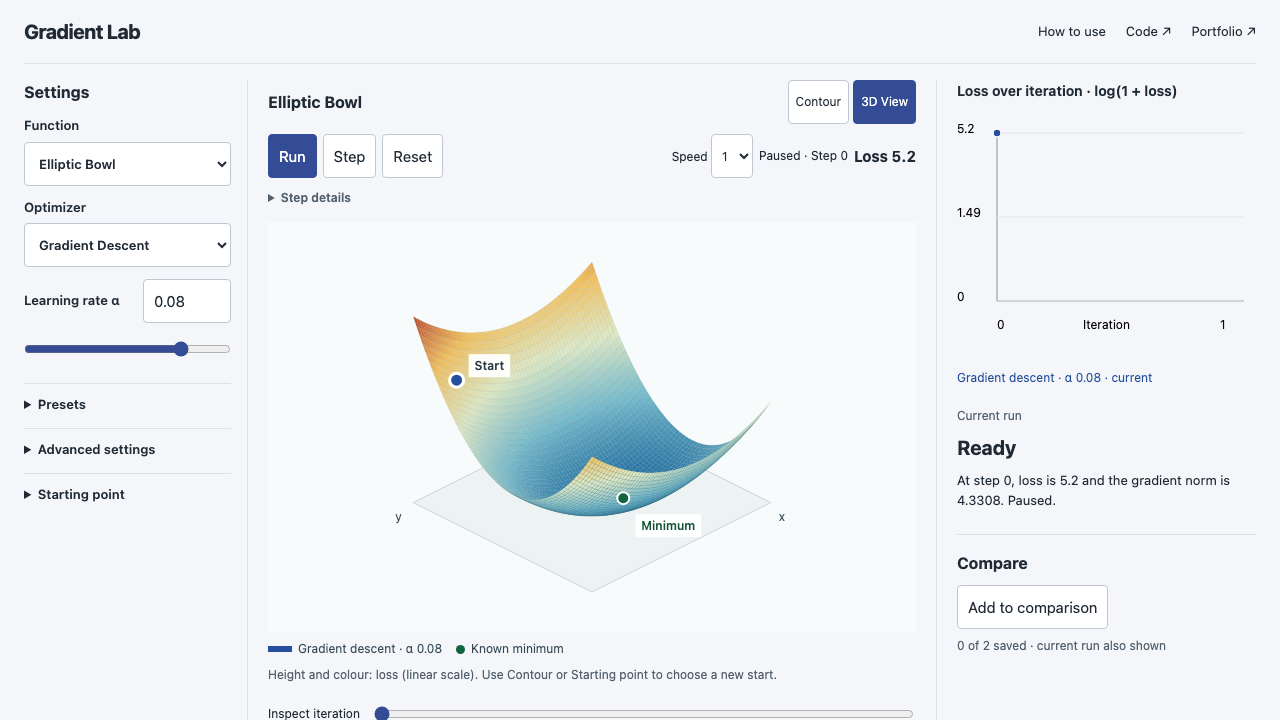
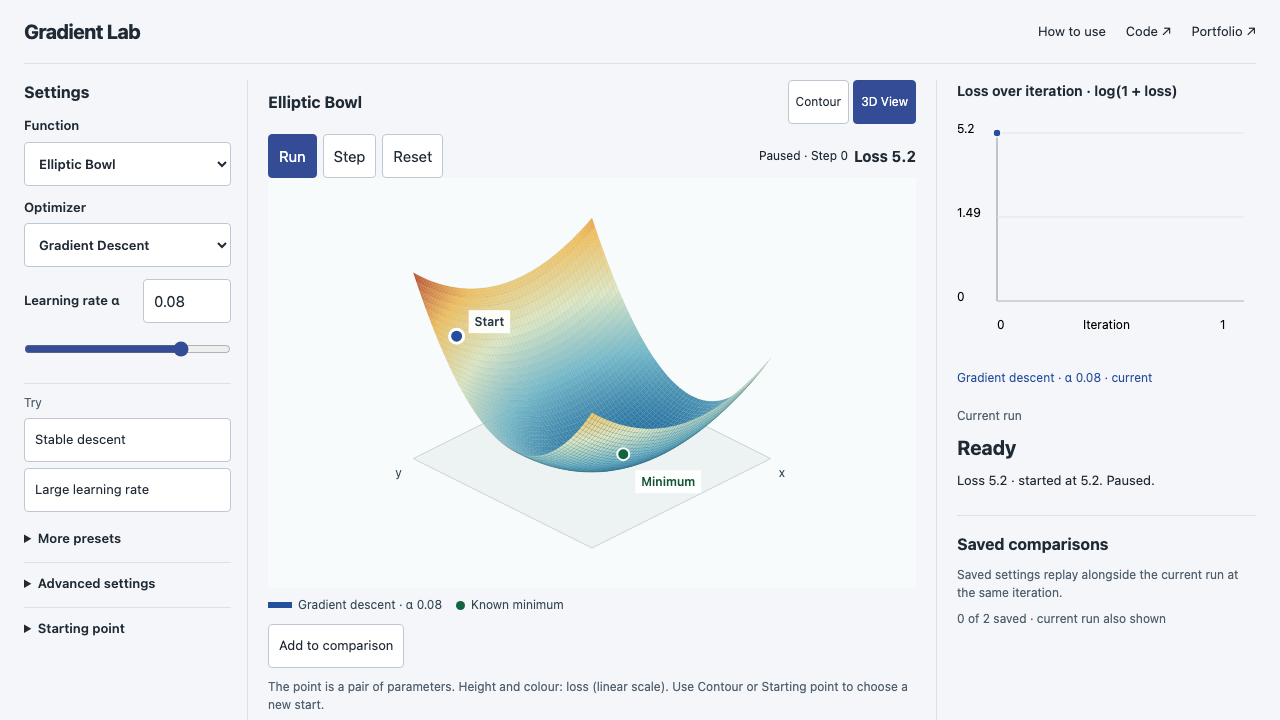
Make playback feedback and comparisons easier to use (#7)

diff --git a/src/App.jsx b/src/App.jsx
@@ -252,12 +252,14 @@ export default function App() {
               }
             />
           </div>
-      <details className="presets" aria-label="Experiment presets">
-        <summary>Presets</summary>
-        <button onClick={() => preset("stable")}>Stable descent</button>
-        <button onClick={() => preset("unstable")}>Large learning rate</button>
-        <button onClick={() => preset("valley")}>Rosenbrock momentum</button>
-      </details>
+          <div className="presets" role="group" aria-label="Experiment presets">
+            <span className="preset-label">Try</span>
+            <button onClick={() => preset("stable")}>Stable descent</button>
+            <button onClick={() => preset("unstable")}>Large learning rate</button>
+            <details><summary>More presets</summary>
+              <button onClick={() => preset("valley")}>Rosenbrock momentum</button>
+            </details>
+          </div>
         </section>
         <section className="experiment" aria-label="Experiment visualization">
           <div className="plot-heading">
@@ -301,43 +303,15 @@ export default function App() {
             >
               Reset
             </button>
-            <label>
-              Speed{" "}
-              <select
-                value={speed}
-                onChange={(e) => setSpeed(Number(e.target.value))}
-              >
-                {[1, 2, 4].map((s) => (
-                  <option key={s}>{s}</option>
-                ))}
-              </select>
-            </label>
             <span role="status">
               {running ? "Running" : "Paused"} · Step {cursor}
             </span>
             <strong className="live-loss">Loss {fmt(current?.loss)}</strong>
           </div>
-              <details className="step-details">
-                <summary>Step details</summary>
-                <p className="equation">
-                  {config.optimizer === "gd"
-                    ? "θₜ₊₁ = θₜ − αgₜ"
-                    : config.optimizer === "momentum"
-                      ? "vₜ₊₁ = βvₜ − αgₜ; θₜ₊₁ = θₜ + vₜ₊₁"
-                      : "θₜ₊₁ = θₜ − αm̂ₜ / (√v̂ₜ + ε)"}
-                </p>
-                {current?.dx !== undefined && (
-                  <p>
-                    Next x update: {fmt(current.x)} + ({fmt(current.dx)}) ={" "}
-                    {fmt(current.x + current.dx)}. Gradient x:{" "}
-                    {fmt(current.gradX)}
-                    {config.noise > 0
-                      ? `; after noise: ${fmt(current.noisyGradX)}`
-                      : ""}
-                    .
-                  </p>
-                )}
-              </details>
+          <div className="mobile-feedback">
+            <LossTrend runs={runs} cursor={cursor} />
+            <span>Lower on the surface means lower loss.</span>
+          </div>
           <LandscapeCanvas
             objective={objective}
             runs={runs}
@@ -345,8 +319,14 @@ export default function App() {
             viewMode={view}
             onStart={setStart}
           />
+          <div className="comparison-action">
+            <button disabled={!!savedCurrent || retained.length >= 2} onClick={retain}>
+              {savedCurrent ? "Added to comparison" : "Add to comparison"}
+            </button>
+            {runs.length > 1 && <span>All runs at iteration {cursor}</span>}
+          </div>
           <p className="caption">
-            {view === "contour" ? "Colour" : "Height and colour"}:{" "}
+            The point is a pair of parameters. {view === "contour" ? "Colour" : "Height and colour"}:{" "}
             {objective.id === "bowl" ? "loss (linear scale)" : "log(1 + loss)"}.
             {view === "contour"
               ? " Click inside the axes to set the starting point."
@@ -366,6 +346,40 @@ export default function App() {
             />
           </label>
 
+              <details className="step-details">
+                <summary>Step details</summary>
+            <label>
+              Speed{" "}
+              <select
+                value={speed}
+                onChange={(e) => setSpeed(Number(e.target.value))}
+              >
+                {[1, 2, 4].map((s) => (
+                  <option key={s}>{s}</option>
+                ))}
+              </select>
+            </label>
+                <p className="equation">
+                  {config.optimizer === "gd"
+                    ? "θₜ₊₁ = θₜ − αgₜ"
+                    : config.optimizer === "momentum"
+                      ? "vₜ₊₁ = βvₜ − αgₜ; θₜ₊₁ = θₜ + vₜ₊₁"
+                      : "θₜ₊₁ = θₜ − αm̂ₜ / (√v̂ₜ + ε)"}
+                </p>
+                {current?.dx !== undefined && (
+                  <p>
+                    Next x update: {fmt(current.x)} + ({fmt(current.dx)}) ={" "}
+                    {fmt(current.x + current.dx)}. Gradient x:{" "}
+                    {fmt(current.gradX)}
+                    {config.noise > 0
+                      ? `; after noise: ${fmt(current.noisyGradX)}`
+                      : ""}
+                    .
+                  </p>
+                )}
+                <p>Gradient norm: {fmt(current?.gradNorm)}. Smaller does not by itself prove a minimum.</p>
+              </details>
+
         </section>
           <section className="results" aria-label="Experiment results">
             <LossComparison runs={runs} cursor={cursor} />
@@ -374,7 +388,7 @@ export default function App() {
               <h2>{summary.status}</h2>
               <p>
                 {current
-                  ? `At step ${current.iteration}, loss is ${fmt(current.loss)} and the gradient norm is ${fmt(current.gradNorm)}.`
+                  ? `Loss ${fmt(current.loss)} · started at ${fmt(result.trace[0].loss)}.`
                   : "The initial state could not be evaluated."}{" "}
                 {cursor >= result.trace.length - 1
                   ? `Stopped: ${result.termination.replaceAll("_", " ")}.`
@@ -383,12 +397,12 @@ export default function App() {
                     : "Paused."}
               </p>
 
+              {cursor >= result.trace.length - 1 && ["safety_limit", "numerical_failure"].includes(result.termination) &&
+                <button onClick={() => preset("stable")}>Return to stable descent</button>}
             </div>
           <section className="saved-runs" aria-label="Saved comparisons">
-            <h2>Compare</h2>
-            <button disabled={!!savedCurrent || retained.length >= 2} onClick={retain}>
-              {savedCurrent ? "Added to comparison" : "Add to comparison"}
-            </button>
+            <h2>Saved comparisons</h2>
+            <p>Saved settings replay alongside the current run at the same iteration.</p>
             <p>{retained.length} of 2 saved · current run also shown</p>
             {retained.map((run) => <div className="saved-run" key={run.key}>
               <span style={{ color: COLORS[run.slot] }}>{runLabel(run.config)}</span>
@@ -404,6 +418,7 @@ export default function App() {
         <aside className="controls advanced-controls" aria-label="Advanced experiment controls">
           <details className="advanced">
             <summary>Advanced settings</summary>
+            <button className="mobile-preset" onClick={() => preset("valley")}>Rosenbrock momentum</button>
             <label>
               {config.optimizer === "adam" ? "First moment β₁" : "Momentum β"}{" "}
               <span className="control-value">{fmt(config.momentum)}</span>
@@ -578,6 +593,7 @@ function LossComparison({ runs, cursor }) {
   return (
     <figure ref={chartRef}>
       <figcaption>Loss over iteration · log(1 + loss)</figcaption>
+      {runs.length > 1 && <p className="comparison-clock">All runs at iteration {cursor}; stopped runs keep their last point.</p>}
       <svg
         viewBox={`0 0 ${W} ${H}`}
         role="img"
@@ -636,4 +652,19 @@ function LossComparison({ runs, cursor }) {
       </p>
     </figure>
   );
+}
+
+function LossTrend({ runs, cursor }) {
+  const traces = runs.map(run => run.result.trace.slice(0, cursor + 1));
+  const high = Math.max(1, ...traces.flat().map(point => Math.log1p(Math.max(0, point.loss))));
+  return <figure className="loss-trend">
+    <figcaption>Loss trend</figcaption>
+    <svg viewBox="0 0 120 32" role="img" aria-label={`Loss trend through iteration ${cursor}; full chart below`}>
+      {traces.map((trace, i) => <g key={runs[i].key}><polyline fill="none" stroke={COLORS[runs[i].slot]} strokeWidth="2"
+        strokeDasharray={runs[i].slot === 1 ? "6 3" : runs[i].slot === 2 ? "2 2" : undefined}
+        points={trace.map(point => `${2 + point.iteration / Math.max(1, cursor) * 116},${30 - Math.log1p(Math.max(0, point.loss)) / high * 28}`).join(" ")} />
+        <circle cx={2 + trace.at(-1).iteration / Math.max(1,cursor) * 116} cy={30 - Math.log1p(Math.max(0,trace.at(-1).loss))/high*28} r="2" fill={COLORS[runs[i].slot]} />
+      </g>)}
+    </svg>
+  </figure>;
 }

diff --git a/src/styles.css b/src/styles.css
@@ -42,6 +42,7 @@ header nav a { display:inline-flex; align-items:center; min-height:44px; }
 .control-value { float:right; font-variant-numeric:tabular-nums; }
 .presets { margin-top:12px; border-top:1px solid var(--line); }
 .presets button { display:block; width:100%; text-align:left; font-size:13px; margin:6px 0; }
+.preset-label { display:block; font-size:12px; color:#52606e; padding-top:10px; }
 .advanced-controls details { border-top:1px solid var(--line); }
 .experiment { grid-column:2; grid-row:1/3; min-width:0; padding-bottom:16px; }
 .plot-heading { display:flex; align-items:center; justify-content:space-between; gap:8px; }
@@ -51,10 +52,12 @@ header nav a { display:inline-flex; align-items:center; min-height:44px; }
 .playback { display:flex; align-items:center; gap:6px; flex-wrap:wrap; margin:10px 0 0; }
 .playback button { padding:8px 10px; }
 .playback label,.playback span { font-size:12px; }
-.playback label { margin-left:auto; }
+.playback span { margin-left:auto; }
 .playback select { padding:6px; font-size:12px; }
 .live-loss { font-size:15px; font-variant-numeric:tabular-nums; }
 .step-details { margin:0; font-size:13px; }
+.step-details label { display:flex; align-items:center; gap:8px; }
+.step-details select { font-size:13px; }
 .step-details summary { color:#52606e; font-size:12px; }
 .equation { font-family:monospace; background:#e8edf5; padding:10px; overflow-wrap:anywhere; }
 .landscape-wrap { width:100%; height:clamp(360px,calc(100svh - 310px),820px); overflow:hidden; background:#f8faff; }
@@ -111,17 +114,19 @@ th,td { padding:10px; border-bottom:1px solid var(--line); font-variant-numeric:
 @media(max-width:1199px) {
  .bench { grid-template-columns:1fr; gap:16px; }
  .essential,.experiment,.results,.advanced-controls { grid-column:1; grid-row:auto; }
- .essential { display:grid; grid-template-columns:1fr 1fr 1fr auto; gap:12px; align-items:end; border:0; padding:0; }
+ .essential { display:grid; grid-template-columns:1fr 1fr 1fr; gap:12px; align-items:end; border:0; padding:0; }
  .essential h2 { display:none; }
  .essential label { margin:0; }
  .essential .rate-control { grid-template-columns:1fr 88px; }
  .essential .rate-control input[type=range] { min-height:24px; }
  .presets { margin:0; border:0; position:relative; }
- .presets[open] { grid-column:1/-1; }
- .presets[open] button { display:inline-block; width:auto; margin-right:8px; }
+ .presets { grid-column:1/-1; display:flex; flex-wrap:wrap; gap:6px; align-items:center; }
+ .presets button { width:auto; margin:0; }
+ .preset-label { padding:0; }
+ .presets details { margin-left:4px; }
  .experiment { padding:0; }
- .landscape-wrap { height:clamp(360px,calc(100svh - 330px),660px); }
- .results { padding:20px 0; border-left:0; border-top:1px solid var(--line); }
+ .landscape-wrap { height:clamp(360px,calc(100svh - 430px),660px); }
+ .results { padding:10px 0; border-left:0; border-top:1px solid var(--line); }
  .results figure { max-width:950px; }
  .results svg { height:260px; }
  .advanced-controls { border-right:0; border-top:1px solid var(--line); padding:0; }
@@ -138,7 +143,10 @@ th,td { padding:10px; border-bottom:1px solid var(--line); font-variant-numeric:
  .essential .rate-control input[type=range] { grid-column:1; grid-row:2; }
  .essential .rate-control input[type=number] { grid-column:2; grid-row:1/3; }
  .presets { grid-column:1/-1; }
- .presets summary { min-height:36px; padding:6px 0; }
+ .presets summary { padding:11px 0; }
+ .presets .preset-label { display:none; }
+ .presets > button { flex:1; text-align:center; font-size:12px; padding:6px; }
+ .presets details { display:none; }
  .plot-heading h2 { font-size:15px; }
  .playback { margin-top:6px; }
  .playback span { margin-left:0; }
@@ -147,3 +155,18 @@ th,td { padding:10px; border-bottom:1px solid var(--line); font-variant-numeric:
  .guide-figure svg { max-height:290px; }
 }
 @media(prefers-reduced-motion:reduce) { * { scroll-behavior:auto!important; } }
+
+.mobile-feedback { display:none; }
+.comparison-action { display:flex; flex-wrap:wrap; align-items:center; gap:8px 16px; margin:10px 0; }
+.comparison-action button { font-size:13px; }
+.comparison-action span,.comparison-clock { font-size:12px; color:#52606e; }
+@media(max-width:1199px) {
+ .mobile-feedback { display:flex; align-items:center; gap:16px; margin:8px 0; font-size:12px; color:#52606e; }
+ .loss-trend { display:flex; gap:8px; align-items:center; margin:0; flex:0 0 160px; }
+ .loss-trend figcaption { max-width:38px; line-height:1.2; }
+ .loss-trend svg { width:120px; height:32px; }
+ .comparison-action { margin:8px 0; }
+}
+
+.mobile-preset { display:none; }
+@media(max-width:600px) { .mobile-preset { display:block; } }

diff --git a/tests/e2e/gradient-lab.e2e.spec.js b/tests/e2e/gradient-lab.e2e.spec.js
@@ -19,7 +19,6 @@ test("large learning rates produce an explicit failure rather than a bounded fak
   page,
 }) => {
   await page.goto("/");
-  await page.getByText("Presets", {exact:true}).click();
   await page.getByRole("button", { name: "Large learning rate" }).click();
   await page.getByLabel("Inspect iteration").focus();
   await page.getByLabel("Inspect iteration").press("End");
@@ -63,6 +62,7 @@ test("rendering and playback controls cannot change downloaded mathematics", asy
   }
   const before = await downloadTrace();
   await page.getByRole("button", { name: "Contour", exact: true }).click();
+  await page.getByText("Step details", {exact:true}).click();
   await page
     .getByRole("combobox", { name: "Speed", exact: true })
     .selectOption("4");
@@ -137,3 +137,18 @@ for (const [width, height] of [[1280,720],[800,900],[390,844]]) {
     await page.screenshot({path:`../../outputs/distinct-tested-gradient-guide-${width}.png`});
   });
 }
+
+
+test('phone playback has a visible loss trend and nearby comparison action',async({page})=>{
+ await page.setViewportSize({width:390,height:844});await page.goto('/');
+ await expect(page.getByRole('button',{name:'Stable descent',exact:true})).toBeVisible();
+ await expect(page.getByRole('button',{name:'Large learning rate',exact:true})).toBeVisible();
+ await expect(page.locator('.loss-trend')).toBeInViewport();
+ await page.getByRole('button',{name:'Step',exact:true}).click();
+ await expect(page.locator('.loss-trend svg')).toHaveAttribute('aria-label',/iteration 1/);
+ const bowl=await page.locator('canvas').boundingBox();
+ const action=await page.getByRole('button',{name:'Add to comparison',exact:true}).boundingBox();
+ expect(action.y-bowl.y-bowl.height).toBeLessThan(40);
+ await page.getByRole('button',{name:'Add to comparison',exact:true}).click();
+ await expect(page.getByText('Paused · Step 1')).toBeVisible();
+});

diff --git a/README.md b/README.md
@@ -8,14 +8,14 @@ How do update rules and learning rates change the path down the **same objective
 
 ## Try it
 
-1. Begin on the paused elliptic bowl. Take one **Step** and open **Step details** beside playback to inspect the numeric update.
+1. Begin on the paused elliptic bowl. Take one **Step** and open **Step details** beneath the iteration scrubber to inspect the numeric update.
 2. **Add to comparison**, switch from gradient descent to Adam, and compare the paths and losses.
-3. Try **Presets → Large learning rate**. The path can leave the viewport and terminate at an explicit safety limit.
+3. Try **Large learning rate**. The path can leave the viewport and terminate at an explicit safety limit.
 4. Move to Rosenbrock or either non-convex surface. Share the current configuration or download all compared traces.
 
 The two retained runs plus the current run share a function and start. Changing either clears comparisons. Reset rewinds the same seeded experiment; **New start** explicitly changes it. The 3D bowl opens paused. Contour is an equal-scale overhead view with click-to-place coordinates. **How to use** explains the surface and offers three experiments below the tool; returning preserves the current selection.
 
-On a wide screen, settings, the surface, and the loss curve sit alongside each other. Smaller screens put essential settings above the surface and results below it. Saved comparisons survive these layout changes.
+On a wide screen, settings, the surface, and the loss curve sit alongside each other. Smaller screens put essential settings and a compact loss trend above the surface, with the full results below. **Add to comparison** sits directly beneath the plot; saved configurations replay at the shared iteration. Saved comparisons survive these layout changes.
 
 ## Mathematics
 
